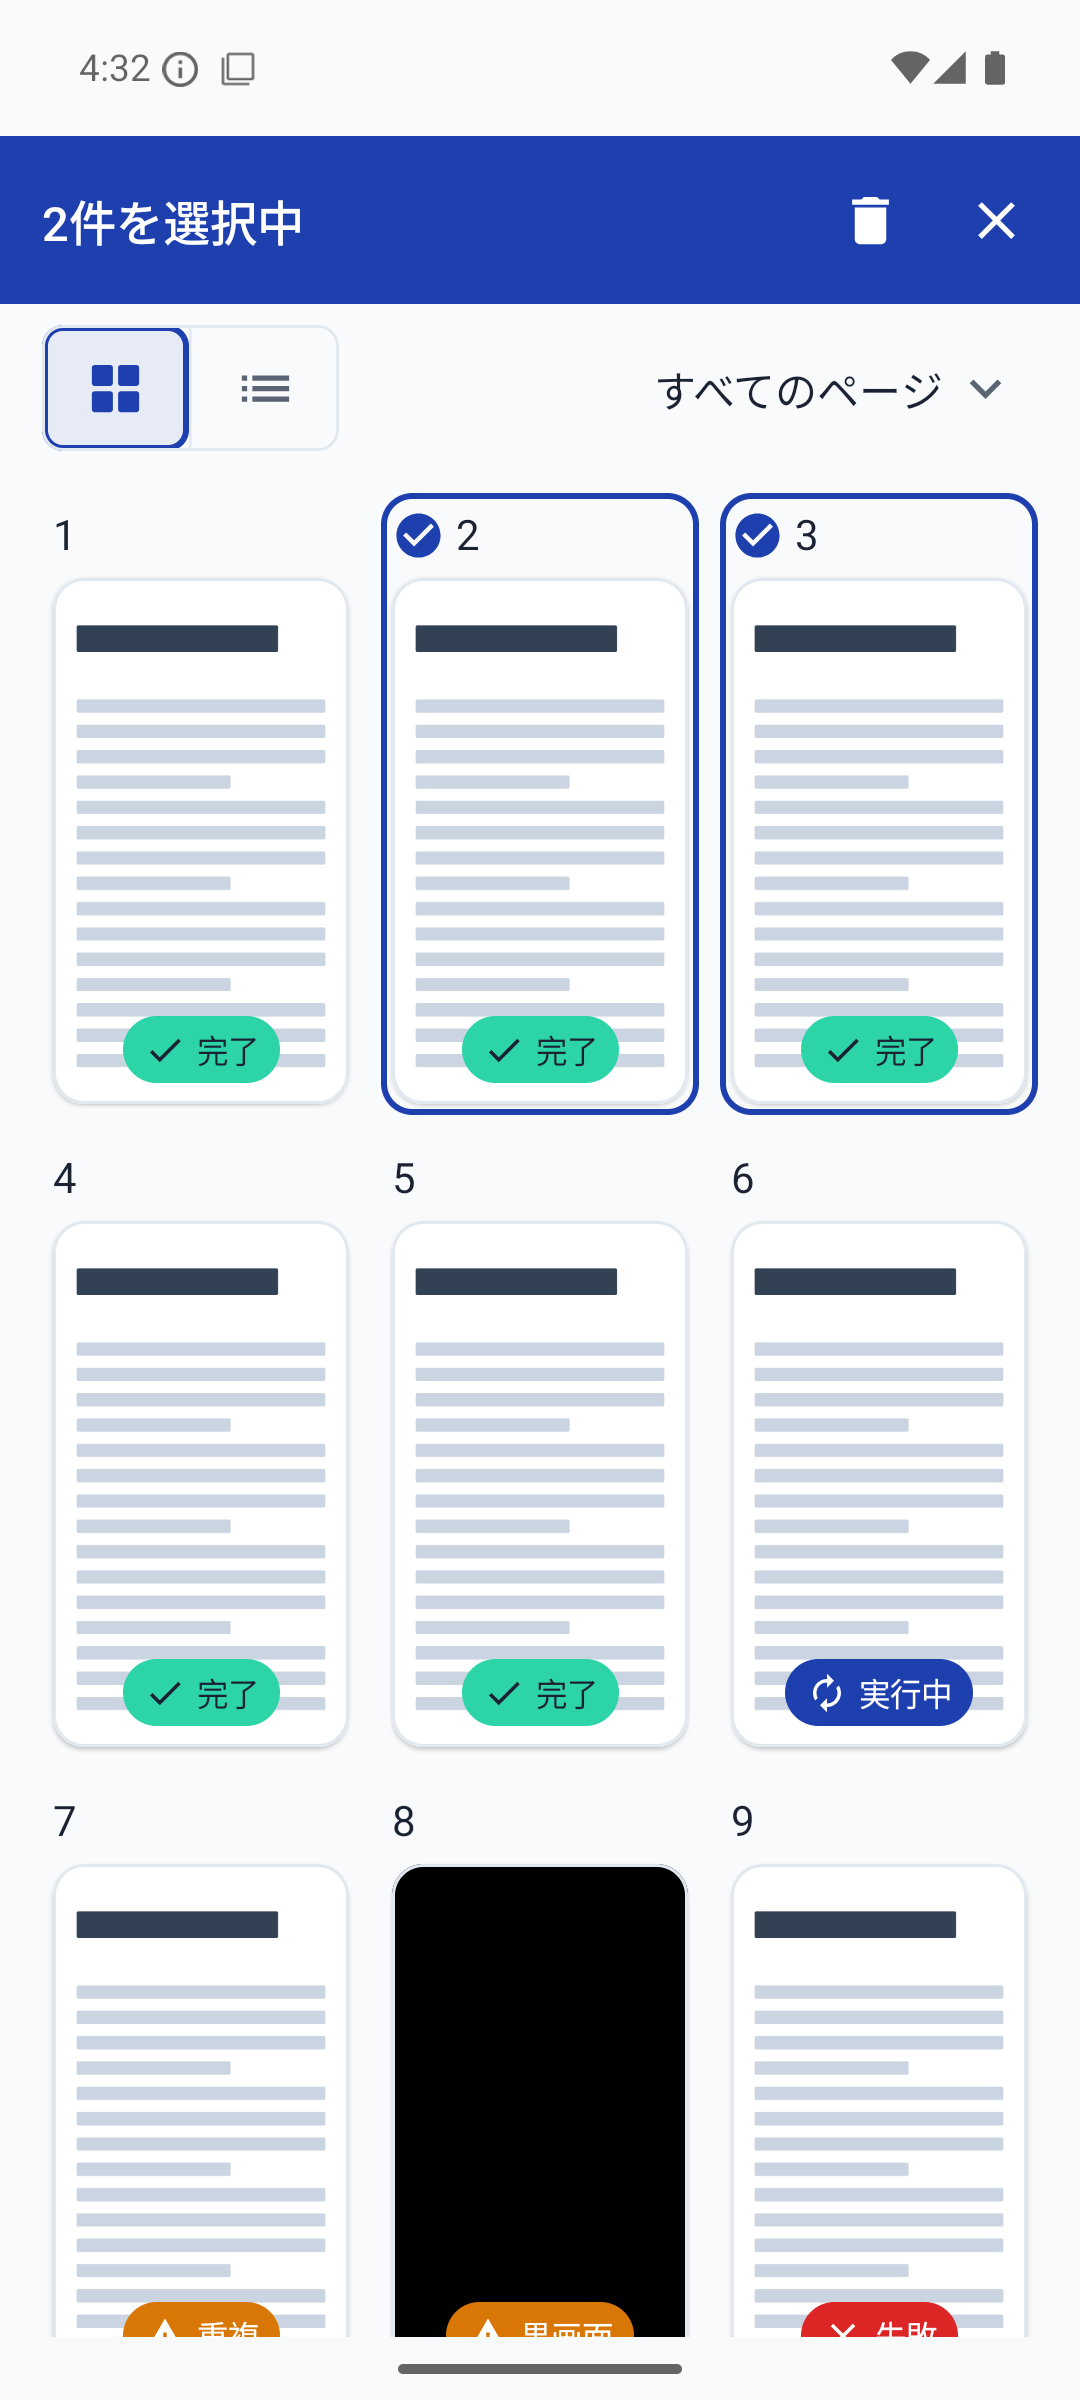
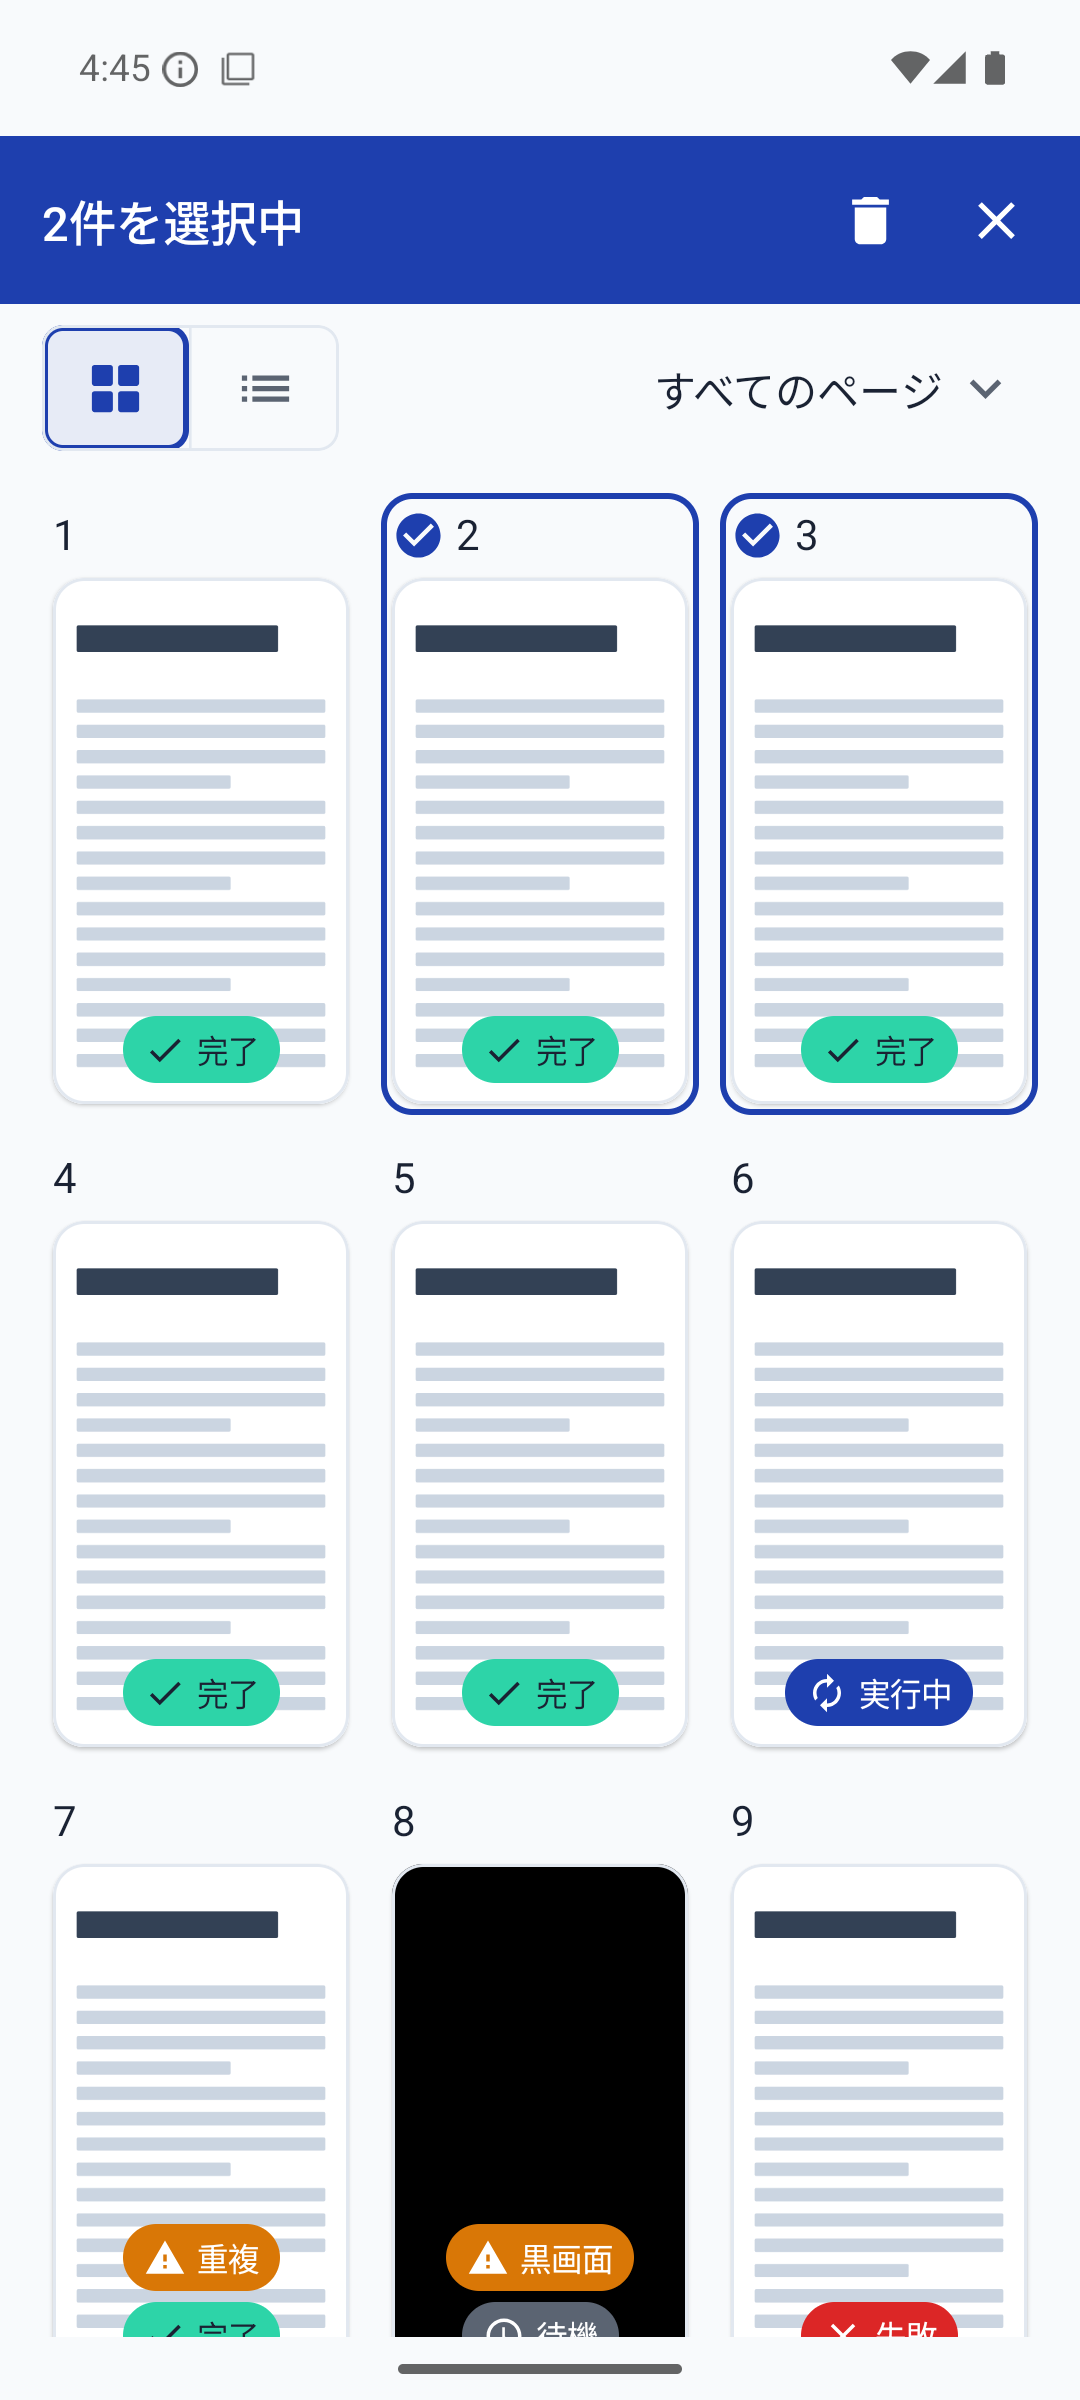
task pagebinder-snk.3: グリッドでもOCR状態と警告の両方を表示（評価者指摘の修正）
不合格理由: gridBadge が warningBadge ?: ocrBadge で一方だけを返すため、
重複・黒画面のページで OCR状態が消えていた（docs/specs/08-page-editing.md §3.1 に不一致）。

- gridBadge を削除し、PageStatusBadgeStack（縦積み）を追加。
  OCR状態はモックと同じ最下段に残し、警告があるページだけ上に警告バッジが増える形にした
- PageStatusBadgeRow の KDoc も「OCR状態は常に出す」に明確化
- 誤仕様を固定していた PageListScreenTest の表示切替テストを、
  grid/list の testTag で実際の入れ替わりを見る形に修正し、
  グリッド・リスト双方で警告+OCR状態の両方が出ることを見るテストを追加
- スクリーンショット撮り直し（セル7=重複+完了 / セル8=黒画面+待機）

検証: make verify → VERIFY: PASS（androidTest 48件・エミュレータ pixel-api35）

Changed region(s): [[0.3972, 0.9062, 0.5806, 1.0], [0.0917, 0.9062, 0.275, 1.0]]

diff --git a/app/src/androidTest/java/com/pagebinder/app/ui/pagelist/PageListScreenTest.kt b/app/src/androidTest/java/com/pagebinder/app/ui/pagelist/PageListScreenTest.kt
@@ -47,16 +47,52 @@ class PageListScreenTest {
 
     @Test
     fun `表示切替でグリッドとリストが入れ替わる`() {
-        // 重複警告と完了が同時に付いたページ1件。グリッドは警告だけ、リストは警告+OCR状態を並べる
+        val viewModel = showScreen(samplePages())
+        composeTestRule.onNodeWithTag(PAGE_LIST_GRID_TEST_TAG).assertIsDisplayed()
+        composeTestRule.onNodeWithTag(PAGE_LIST_ROWS_TEST_TAG).assertDoesNotExist()
+
+        composeTestRule
+            .onNodeWithContentDescription(string(R.string.page_list_view_mode_list))
+            .performClick()
+
+        assertEquals(PageListViewMode.LIST, viewModel.uiState.value.viewMode)
+        composeTestRule.onNodeWithTag(PAGE_LIST_ROWS_TEST_TAG).assertIsDisplayed()
+        composeTestRule.onNodeWithTag(PAGE_LIST_GRID_TEST_TAG).assertDoesNotExist()
+
+        composeTestRule
+            .onNodeWithContentDescription(string(R.string.page_list_view_mode_grid))
+            .performClick()
+
+        assertEquals(PageListViewMode.GRID, viewModel.uiState.value.viewMode)
+        composeTestRule.onNodeWithTag(PAGE_LIST_GRID_TEST_TAG).assertIsDisplayed()
+        composeTestRule.onNodeWithTag(PAGE_LIST_ROWS_TEST_TAG).assertDoesNotExist()
+    }
+
+    @Test
+    fun `警告のあるページはグリッドでもOCR状態と警告の両方を出す`() {
+        // docs/specs/08-page-editing.md §3.1: 各ページに OCR状態と重複・黒画面警告を表示する。
+        // 警告が付いたページでも OCR状態が消えてはいけない
+        showScreen(
+            listOf(
+                page(1, ocrState = PageOcrState.SUCCEEDED, qualityState = PageQualityState.DUPLICATE),
+                page(2, ocrState = PageOcrState.PENDING, qualityState = PageQualityState.BLACK),
+            ),
+        )
+
+        composeTestRule.onNodeWithText(string(R.string.page_list_warning_duplicate)).assertIsDisplayed()
+        composeTestRule.onNodeWithText(string(R.string.page_list_ocr_succeeded)).assertIsDisplayed()
+        composeTestRule.onNodeWithText(string(R.string.page_list_warning_black)).assertIsDisplayed()
+        composeTestRule.onNodeWithText(string(R.string.page_list_ocr_pending)).assertIsDisplayed()
+    }
+
+    @Test
+    fun `警告のあるページはリストでもOCR状態と警告の両方を出す`() {
         val viewModel =
             showScreen(
                 listOf(
-                    page(1, ocrState = PageOcrState.SUCCEEDED, qualityState = PageQualityState.DUPLICATE),
+                    page(1, ocrState = PageOcrState.STALE, qualityState = PageQualityState.DUPLICATE),
                 ),
             )
-
-        composeTestRule.onNodeWithText(string(R.string.page_list_warning_duplicate)).assertIsDisplayed()
-        composeTestRule.onNodeWithText(string(R.string.page_list_ocr_succeeded)).assertDoesNotExist()
 
         composeTestRule
             .onNodeWithContentDescription(string(R.string.page_list_view_mode_list))
@@ -64,14 +100,7 @@ class PageListScreenTest {
 
         assertEquals(PageListViewMode.LIST, viewModel.uiState.value.viewMode)
         composeTestRule.onNodeWithText(string(R.string.page_list_warning_duplicate)).assertIsDisplayed()
-        composeTestRule.onNodeWithText(string(R.string.page_list_ocr_succeeded)).assertIsDisplayed()
-
-        composeTestRule
-            .onNodeWithContentDescription(string(R.string.page_list_view_mode_grid))
-            .performClick()
-
-        assertEquals(PageListViewMode.GRID, viewModel.uiState.value.viewMode)
-        composeTestRule.onNodeWithText(string(R.string.page_list_ocr_succeeded)).assertDoesNotExist()
+        composeTestRule.onNodeWithText(string(R.string.page_list_ocr_stale)).assertIsDisplayed()
     }
 
     @Test
@@ -171,7 +200,7 @@ class PageListScreenTest {
         showScreen((1..LARGE_PAGE_COUNT).map { page(it) })
 
         composeTestRule
-            .onNodeWithTag(PAGE_LIST_CONTENT_TEST_TAG)
+            .onNodeWithTag(PAGE_LIST_GRID_TEST_TAG)
             .performScrollToIndex(LARGE_PAGE_COUNT - 1)
 
         composeTestRule.onNodeWithText(LARGE_PAGE_COUNT.toString()).assertIsDisplayed()

diff --git a/app/src/main/java/com/pagebinder/app/ui/pagelist/PageStatusBadge.kt b/app/src/main/java/com/pagebinder/app/ui/pagelist/PageStatusBadge.kt
@@ -1,6 +1,8 @@
 package com.pagebinder.app.ui.pagelist
 
 import androidx.annotation.StringRes
+import androidx.compose.foundation.layout.Arrangement
+import androidx.compose.foundation.layout.Column
 import androidx.compose.foundation.layout.Row
 import androidx.compose.foundation.layout.Spacer
 import androidx.compose.foundation.layout.padding
@@ -72,16 +74,6 @@ val PageListItemUiState.warningBadge: PageStatusBadge?
             PageQualityState.ERROR -> PageStatusBadge.WARNING_IMAGE_ERROR
         }
 
-/**
- * グリッドのセルに1つだけ出すバッジ。
- *
- * 3列のセル幅では pill を2つ並べられないため、モック（docs/design/mockups/07-page-list.png）と同じく
- * 警告があれば警告を、無ければ OCR状態を出す。両方を並べるのは横幅に余裕があるリスト表示側
- * （[PageStatusBadgeRow]）で行う。
- */
-val PageListItemUiState.gridBadge: PageStatusBadge
-    get() = warningBadge ?: ocrBadge
-
 /** 一覧セルの pill バッジ1つ */
 @Composable
 fun PageStatusBadgeChip(
@@ -108,7 +100,11 @@ fun PageStatusBadgeChip(
     }
 }
 
-/** 警告とOCR状態の両方を並べる（リスト表示用。警告が無ければOCR状態だけ） */
+/**
+ * 警告とOCR状態を横に並べる（リスト表示用）。
+ * OCR状態は常に出し、警告があるページはその左に警告バッジを足す
+ * （docs/specs/08-page-editing.md §3.1「各ページに OCR状態アイコン…と重複・黒画面警告を表示」）。
+ */
 @Composable
 fun PageStatusBadgeRow(
     item: PageListItemUiState,
@@ -118,6 +114,31 @@ fun PageStatusBadgeRow(
         item.warningBadge?.let { warning ->
             PageStatusBadgeChip(badge = warning)
             Spacer(modifier = Modifier.width(BADGE_ICON_GAP))
+        }
+        PageStatusBadgeChip(badge = item.ocrBadge)
+    }
+}
+
+/**
+ * 警告とOCR状態を縦に積む（グリッド表示用）。
+ *
+ * 3列のセル幅には pill を2つ横に並べられないので縦に積む。OCR状態はモックと同じ最下段に置き、
+ * 警告があるページだけその上に警告バッジが増える形にして、モック
+ * （docs/design/mockups/07-page-list.png）からの見た目の差を最小にしている。
+ * どちらの表示でもOCR状態は必ず出す（docs/specs/08-page-editing.md §3.1）。
+ */
+@Composable
+fun PageStatusBadgeStack(
+    item: PageListItemUiState,
+    modifier: Modifier = Modifier,
+) {
+    Column(
+        modifier = modifier,
+        horizontalAlignment = Alignment.CenterHorizontally,
+        verticalArrangement = Arrangement.spacedBy(BADGE_ICON_GAP),
+    ) {
+        item.warningBadge?.let { warning ->
+            PageStatusBadgeChip(badge = warning)
         }
         PageStatusBadgeChip(badge = item.ocrBadge)
     }

diff --git a/app/src/main/java/com/pagebinder/app/ui/pagelist/PageListScreen.kt b/app/src/main/java/com/pagebinder/app/ui/pagelist/PageListScreen.kt
@@ -90,8 +90,12 @@ class PageListScreenActions(
     val onReload: () -> Unit,
 )
 
-/** 500ページでもスクロールできることを見るためのテスト用タグ（docs/specs/08-page-editing.md §3.1） */
-const val PAGE_LIST_CONTENT_TEST_TAG = "pageListContent"
+/**
+ * テスト用タグ。表示切替が実際に入れ替わったこと・500ページでもスクロールできることを見る
+ * （docs/specs/08-page-editing.md §3.1）。
+ */
+const val PAGE_LIST_GRID_TEST_TAG = "pageListGrid"
+const val PAGE_LIST_ROWS_TEST_TAG = "pageListRows"
 
 /**
  * ページ一覧画面（docs/design/07-page-list.md / docs/specs/08-page-editing.md §3.1）。
@@ -364,7 +368,7 @@ private fun PageGrid(
 ) {
     LazyVerticalGrid(
         columns = GridCells.Fixed(GRID_COLUMNS),
-        modifier = modifier.fillMaxSize().testTag(PAGE_LIST_CONTENT_TEST_TAG),
+        modifier = modifier.fillMaxSize().testTag(PAGE_LIST_GRID_TEST_TAG),
         contentPadding = PaddingValues(horizontal = ScreenHorizontalMargin, vertical = SpaceUnit),
         horizontalArrangement = Arrangement.spacedBy(SpaceUnit),
         verticalArrangement = Arrangement.spacedBy(SpaceUnit),
@@ -462,8 +466,8 @@ private fun PageThumbnailCard(
                 targetWidth = GRID_THUMBNAIL_TARGET_WIDTH,
                 modifier = Modifier.fillMaxSize(),
             )
-            PageStatusBadgeChip(
-                badge = item.gridBadge,
+            PageStatusBadgeStack(
+                item = item,
                 modifier =
                     Modifier
                         .align(Alignment.BottomCenter)
@@ -486,7 +490,7 @@ private fun PageRows(
     modifier: Modifier = Modifier,
 ) {
     LazyColumn(
-        modifier = modifier.fillMaxSize().testTag(PAGE_LIST_CONTENT_TEST_TAG),
+        modifier = modifier.fillMaxSize().testTag(PAGE_LIST_ROWS_TEST_TAG),
     ) {
         items(items = uiState.visiblePages, key = { it.pageId }) { item ->
             PageListRow(
